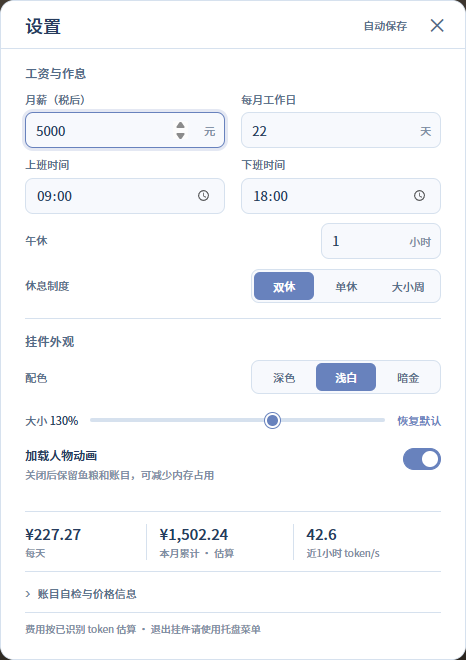
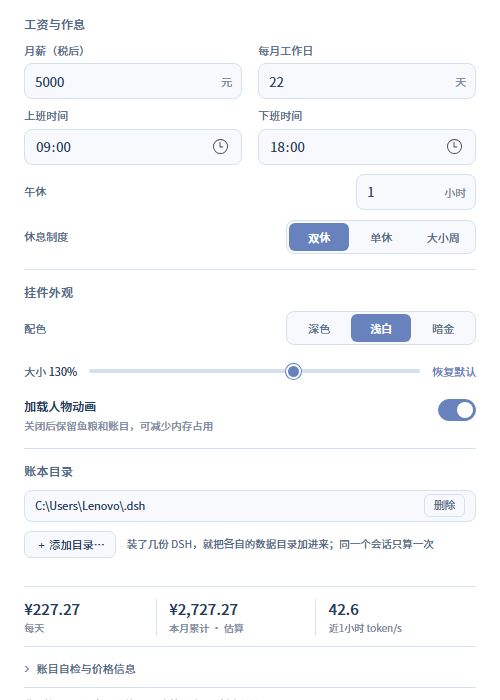
发布桌面版 v0.1.7：账本目录可自己加删、默认只认当前 DSH；内部版本升到 0.2.7；设置页截图换成新版

diff --git a/desktop/README.md b/desktop/README.md
@@ -2,7 +2,7 @@
 
 蓝毛鲸鱼娘、滚轮余额、今日账目和跨天结算。完整功能与素材总览见 [项目首页](../README.md)。
 
-> 当前桌面发布为 [desktop-v0.1.6](https://github.com/Jiang-Xiaoxing/dsh-salary-meter/releases/tag/desktop-v0.1.6)，程序内部版本为 **0.2.6**（在 Windows 里看文件属性时显示的就是这个号）。它与 DSH 插件 **v0.3.3** 是两个组件，不要混用版本号或安装方式。
+> 当前桌面发布为 [desktop-v0.1.7](https://github.com/Jiang-Xiaoxing/dsh-salary-meter/releases/tag/desktop-v0.1.7)，程序内部版本为 **0.2.7**（在 Windows 里看文件属性时显示的就是这个号）。它与 DSH 插件 **v0.3.3** 是两个组件，不要混用版本号或安装方式。
 
 ## 下载与操作
 
@@ -10,7 +10,7 @@
 - `SalaryMeter-Setup.exe`：安装版。
 - 当前发布目标是 **Windows x64**，依赖 WebView2 Runtime。更新前先退出旧程序。
 
-下载入口：[桌面版 Release](https://github.com/Jiang-Xiaoxing/dsh-salary-meter/releases/tag/desktop-v0.1.6)。
+下载入口：[桌面版 Release](https://github.com/Jiang-Xiaoxing/dsh-salary-meter/releases/tag/desktop-v0.1.7)。
 
 人物独立站在桌面上，脚下余额条显示今日工资减去模型费用估算。点击余额条或状态文字展开/收起账目；点人物有互动；拖动可移动并保存位置。点账目右上角 `⋯`、右键人物、鱼粮栏或账目卡，或通过托盘菜单打开设置。
 
@@ -135,7 +135,7 @@ npm run tauri:dev
 npm run tauri:build
 ```
 
-产物在 `desktop/src-tauri/target/release/` 及其 `bundle/nsis/` 中。当前配置的安装器版本是 0.2.6，发布页下载名会简化为 `SalaryMeter-Setup.exe`；不要照搬旧 README 的 0.2.1 文件名。
+产物在 `desktop/src-tauri/target/release/` 及其 `bundle/nsis/` 中。当前配置的安装器版本是 0.2.7，发布页下载名会简化为 `SalaryMeter-Setup.exe`；不要照搬旧 README 的 0.2.1 文件名。
 
 ### 源码目录
 

diff --git a/README.md b/README.md
@@ -26,7 +26,7 @@
 
 **你要的是桌面挂件**，下载页里也只有它：
 
-1. 打开 [桌面版 v0.1.6 下载页](https://github.com/Jiang-Xiaoxing/dsh-salary-meter/releases/tag/desktop-v0.1.6)，二选一：
+1. 打开 [桌面版 v0.1.7 下载页](https://github.com/Jiang-Xiaoxing/dsh-salary-meter/releases/tag/desktop-v0.1.7)，二选一：
    - `SalaryMeter.exe`：免安装，双击直接用；
    - `SalaryMeter-Setup.exe`：安装版，会进开始菜单。
 2. 双击运行。第一次可以填月薪、工作日、上下班时间；懒得填就用默认值：月薪 5000 元、每月 22 天、09:00–18:00、午休 1 小时、双休。
